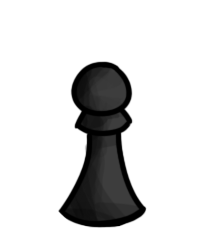
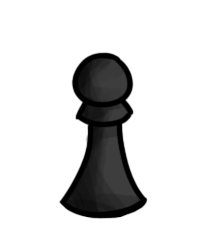
add hitbox + bug fix for every picture
i am so tired with this bugfix

Changed region(s): [[0.27, 0.196, 0.75, 0.924]]

diff --git a/src/util/Config.java b/src/util/Config.java
@@ -4,40 +4,40 @@ public class Config
 {
 	//X, Y in relation to sprite
 	public static final double
-		PLAYER_HITBOX_X = 0,
-		PLAYER_HITBOX_Y = 0,
-		PLAYER_HITBOX_W = 0,
-		PLAYER_HITBOX_H = 0,
-		
-		PAWN_HITBOX_X = 50,
-		PAWN_HITBOX_Y = 30,
-		PAWN_HITBOX_W = 90,
+		PLAYER_HITBOX_X = 57,
+		PLAYER_HITBOX_Y = 30,
+		PLAYER_HITBOX_W = 88,
+		PLAYER_HITBOX_H = 165,
+	
+		PAWN_HITBOX_X = 60,
+		PAWN_HITBOX_Y = 11,
+		PAWN_HITBOX_W = 87,
 		PAWN_HITBOX_H = 165,
-				
-		ROOK_HITBOX_X = 0,
-		ROOK_HITBOX_Y = 0,
-		ROOK_HITBOX_W = 0,
-		ROOK_HITBOX_H = 0,
-		
-		KNIGHT_HITBOX_X = 0,
-		KNIGHT_HITBOX_Y = 0,
-		KNIGHT_HITBOX_W = 0,
-		KNIGHT_HITBOX_H = 0,
-				
-		BISHOP_HITBOX_X = 0,
-		BISHOP_HITBOX_Y = 0,
-		BISHOP_HITBOX_W = 0,
-		BISHOP_HITBOX_H = 0,
-				
-		QUEEN_HITBOX_X = 0,
-		QUEEN_HITBOX_Y = 0,
-		QUEEN_HITBOX_W = 0,
-		QUEEN_HITBOX_H = 0,
-				
-		KING_HITBOX_X = 0,
-		KING_HITBOX_Y = 0,
-		KING_HITBOX_W = 0,
-		KING_HITBOX_H = 0;
+			
+		ROOK_HITBOX_X = 49,
+		ROOK_HITBOX_Y = 15,
+		ROOK_HITBOX_W = 110,
+		ROOK_HITBOX_H = 162,
+	
+		KNIGHT_HITBOX_X = 33,
+		KNIGHT_HITBOX_Y = 18,
+		KNIGHT_HITBOX_W = 124,
+		KNIGHT_HITBOX_H = 168,
+			
+		BISHOP_HITBOX_X = 56,
+		BISHOP_HITBOX_Y = 10,
+		BISHOP_HITBOX_W = 74,
+		BISHOP_HITBOX_H = 194,
+			
+		QUEEN_HITBOX_X = 48,
+		QUEEN_HITBOX_Y = 2,
+		QUEEN_HITBOX_W = 97,
+		QUEEN_HITBOX_H = 197,
+			
+		KING_HITBOX_X = 227,
+		KING_HITBOX_Y = 48,
+		KING_HITBOX_W = 291,
+		KING_HITBOX_H = 809;
 
 	public static final double
 		AWAKEN_RANGE_WIDTH = 500,
